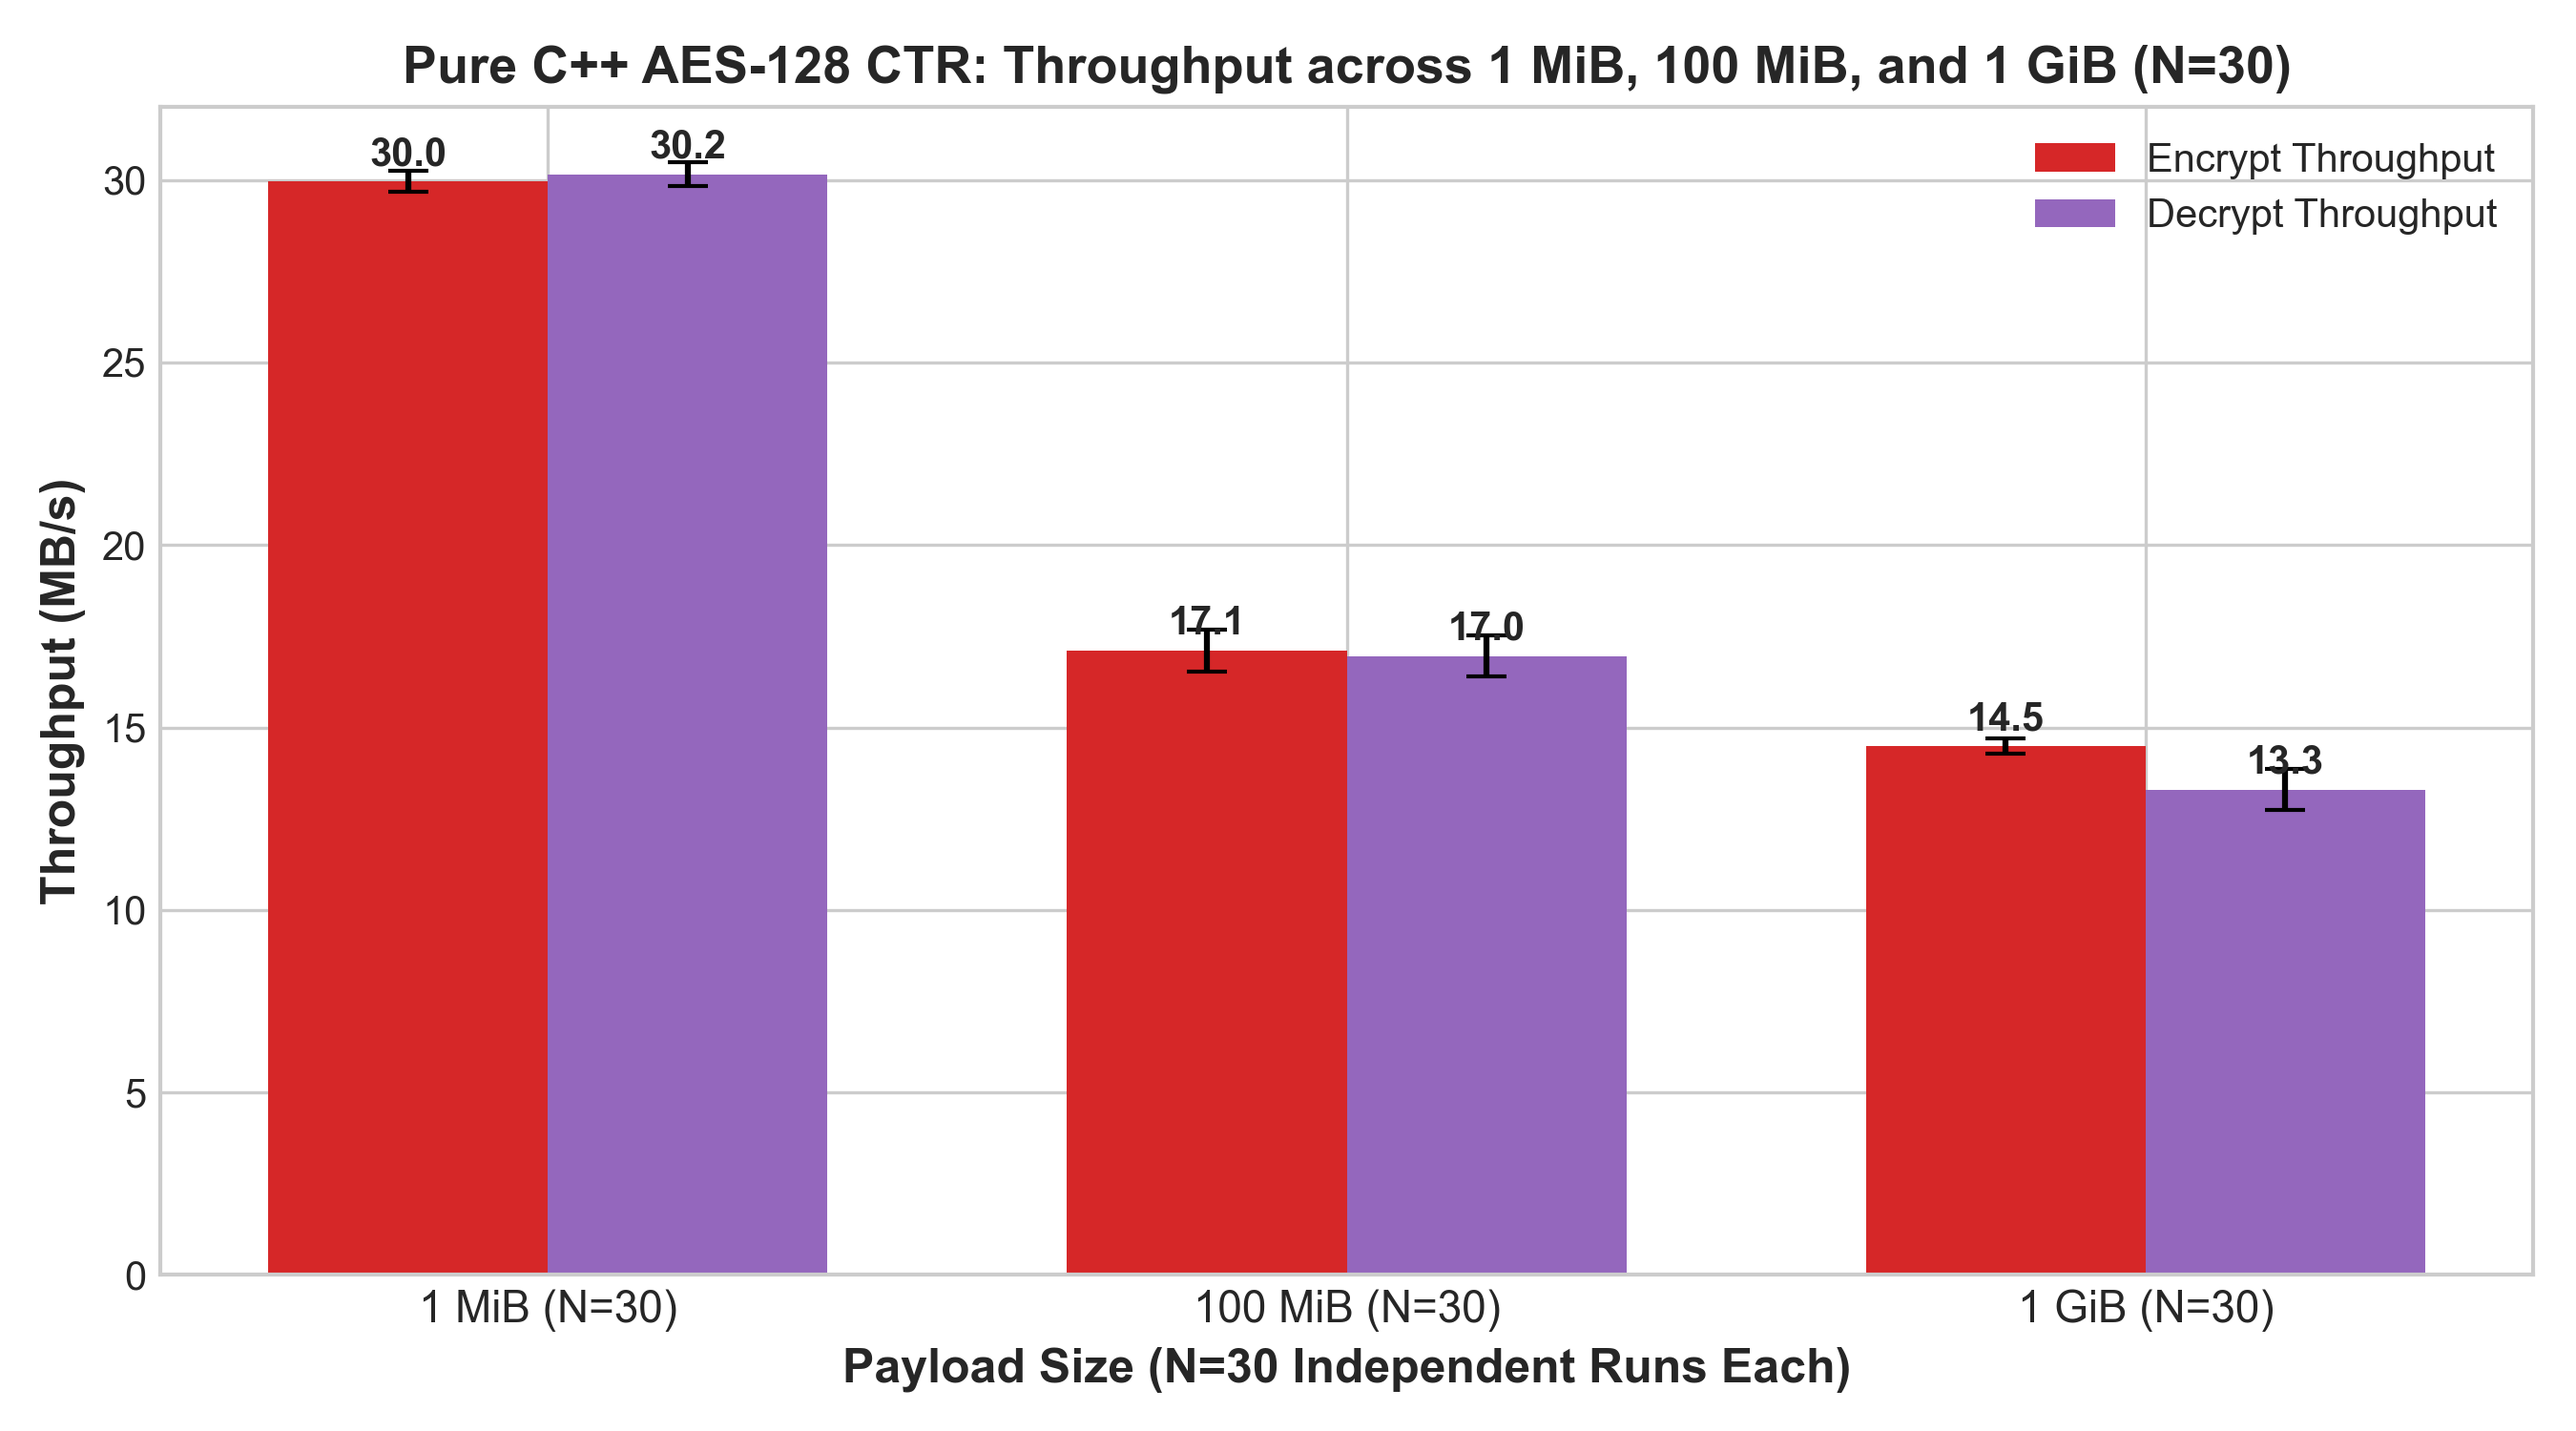
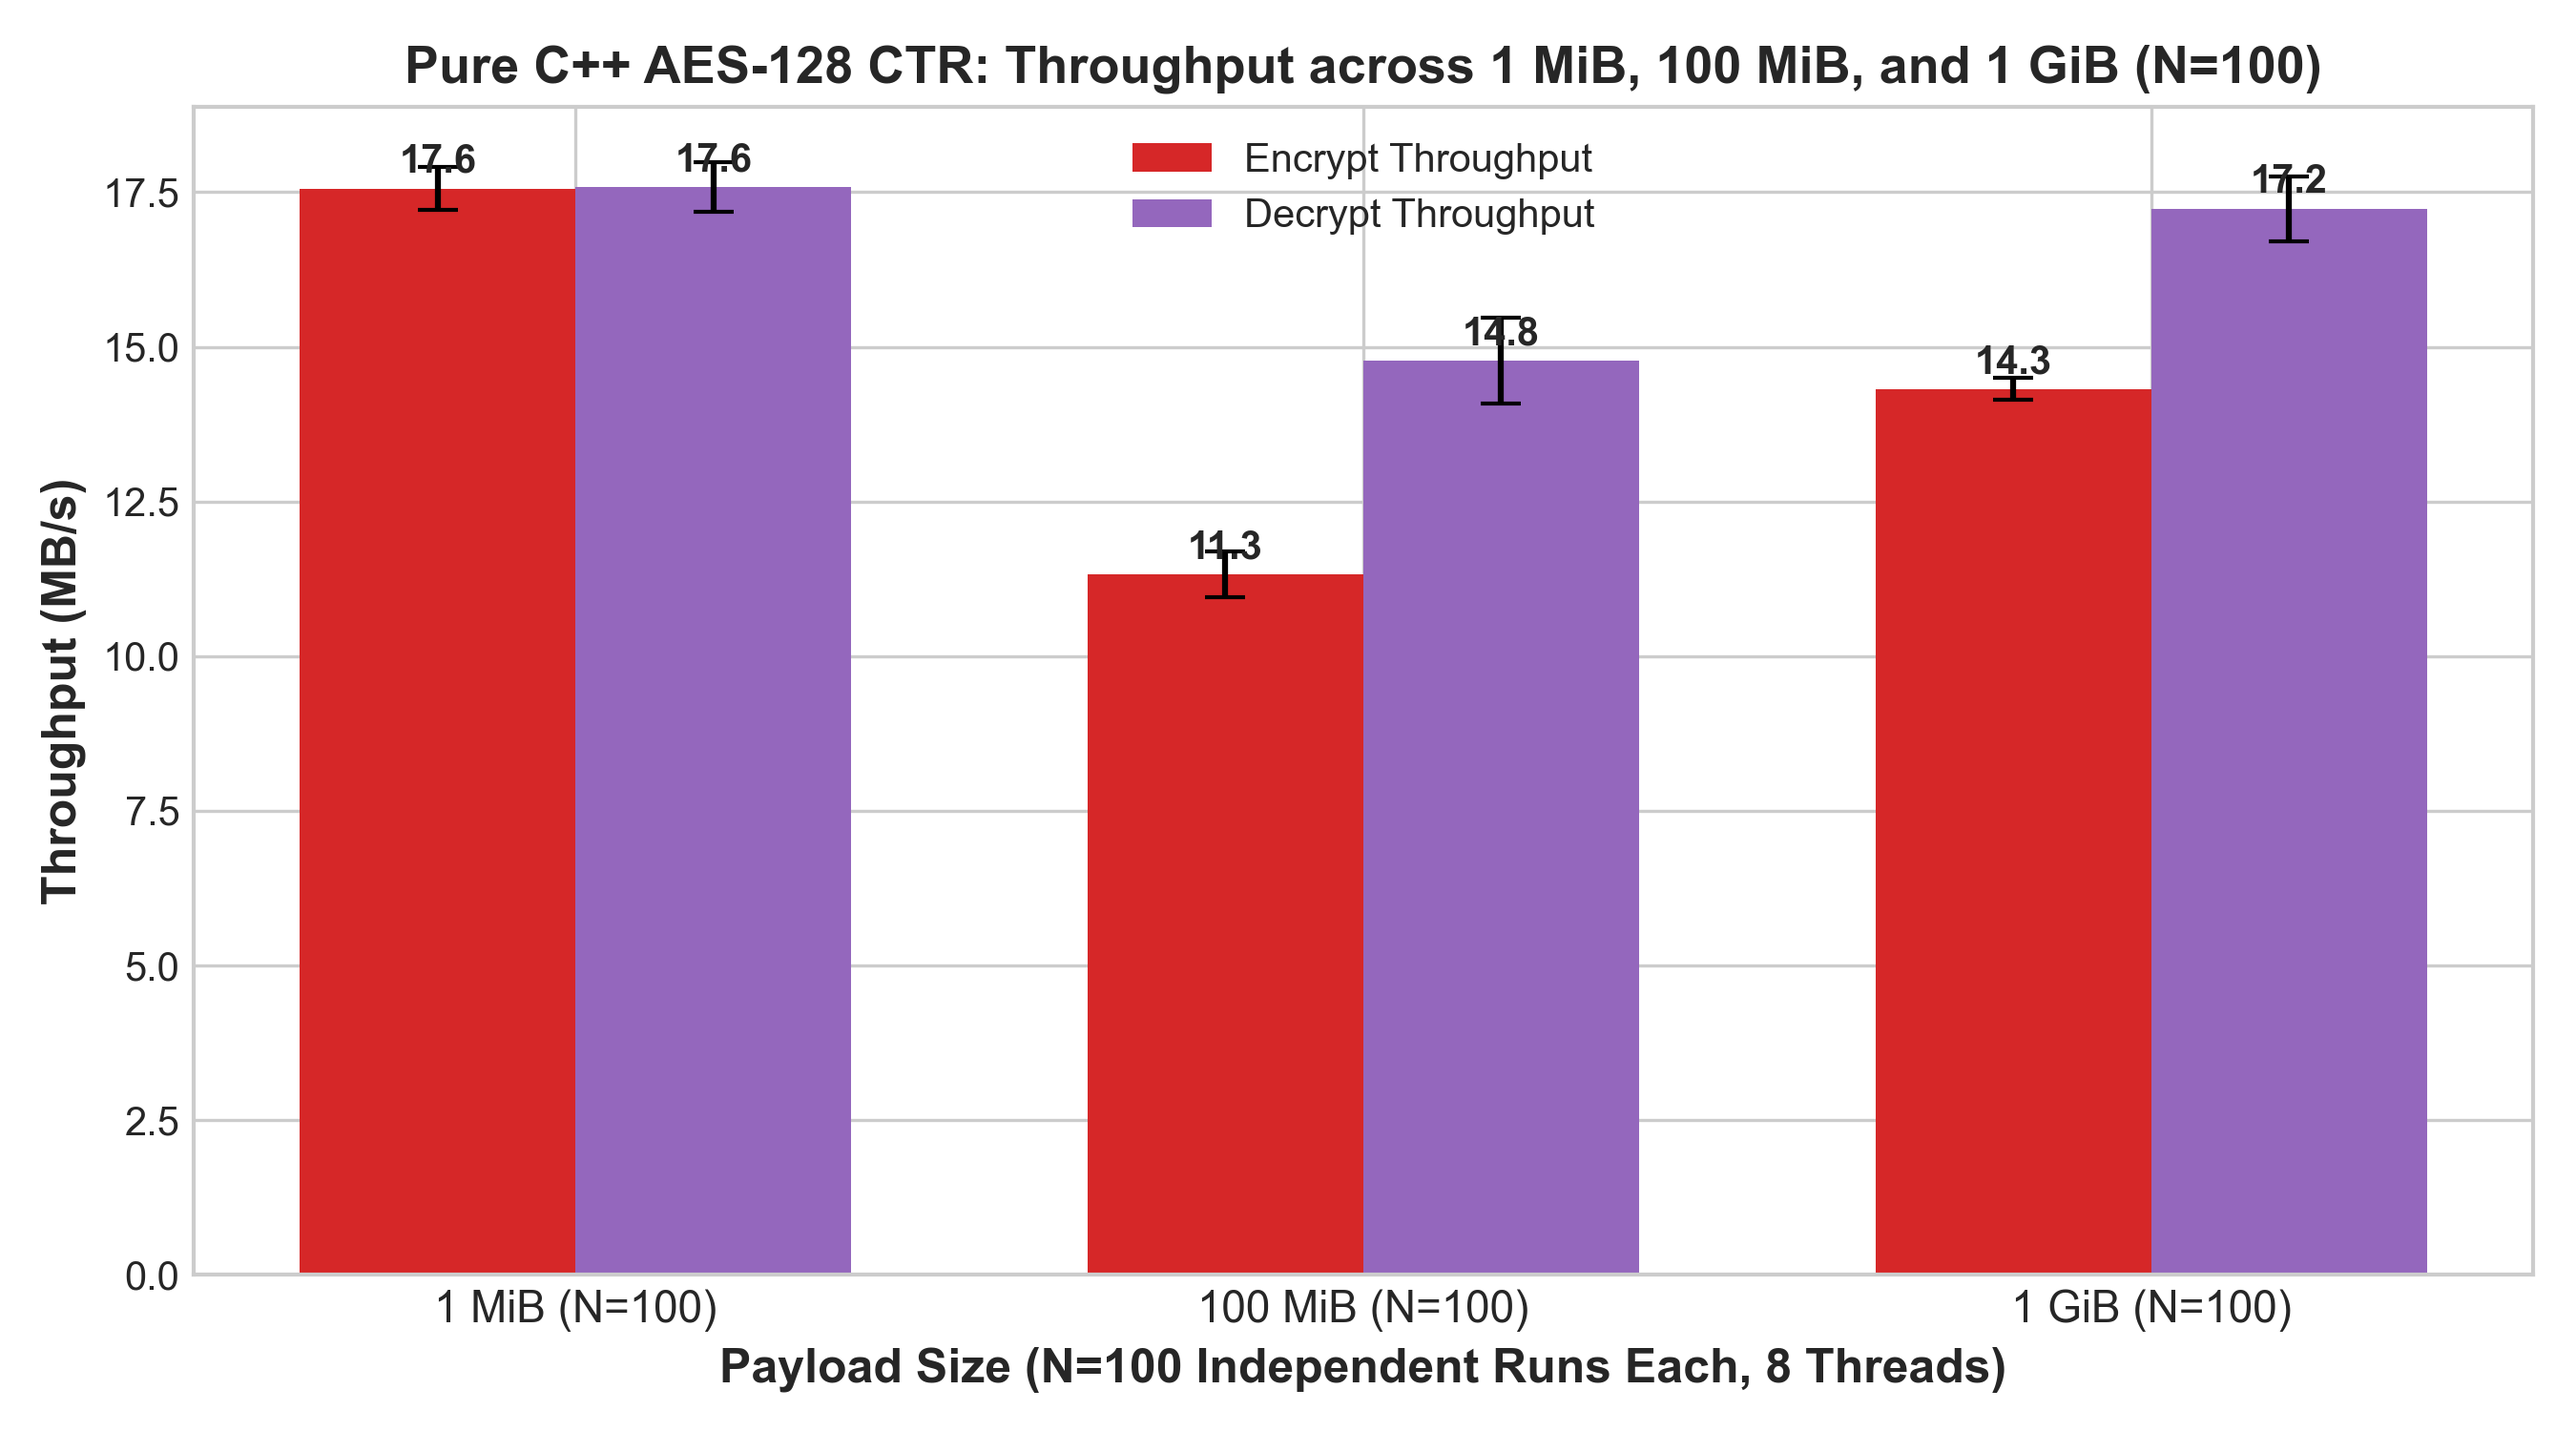
feat(lab2): Standardize benchmarks with 8 threads and N=100 runs across all configurations

diff --git a/lab2/scripts/run_bench_matrix.py b/lab2/scripts/run_bench_matrix.py
@@ -233,22 +233,23 @@ def run_parallel_benchmark(label, sbox_mode, key_bits, key_file, size_name, tota
 
 
 print("=================================================================", flush=True)
-print("  PURE C++ AES BENCHMARK MATRIX (1MiB, 100MiB, 1GiB | N=30 RUNS) ", flush=True)
+print("  PURE C++ AES BENCHMARK MATRIX (1MiB, 100MiB, 1GiB | N=100 RUNS, 8 THREADS) ", flush=True)
 print("=================================================================", flush=True)
 
-# 1. S-Box Comparison (1MiB, N=30)
-print("\n--- 1. S-Box Comparison (1MiB, N=30) ---", flush=True)
-run_sequential_test("AES-128 (Table)", "table", 128, KEY128, "1MiB", 30)
-run_sequential_test("AES-128 (Computed)", "computed", 128, KEY128, "1MiB", 30)
+# 1. S-Box Comparison (1MiB, N=100) using 8 workers
+print("\n--- 1. S-Box Comparison (1MiB, N=100, 8 workers) ---", flush=True)
+run_parallel_benchmark("AES-128 (Table)", "table", 128, KEY128, "1MiB", total_runs=100, num_workers=8)
+run_parallel_benchmark("AES-128 (Computed)", "computed", 128, KEY128, "1MiB", total_runs=100, num_workers=8)
 
-# 2. Key Length Comparison (Table, 1MiB, N=30)
-print("\n--- 2. Key Length Comparison (Table, 1MiB, N=30) ---", flush=True)
-run_sequential_test("AES-192 (Table)", "table", 192, KEY192, "1MiB", 30)
-run_sequential_test("AES-256 (Table)", "table", 256, KEY256, "1MiB", 30)
+# 2. Key Length Comparison (Table, 1MiB, N=100) using 8 workers
+print("\n--- 2. Key Length Comparison (Table, 1MiB, N=100, 8 workers) ---", flush=True)
+run_parallel_benchmark("AES-192 (Table)", "table", 192, KEY192, "1MiB", total_runs=100, num_workers=8)
+run_parallel_benchmark("AES-256 (Table)", "table", 256, KEY256, "1MiB", total_runs=100, num_workers=8)
 
-# 3. Payload Size Scaling: 100MiB (N=30) and 1GiB (N=30) using 8 parallel workers
-run_parallel_benchmark("AES-128 (Table)", "table", 128, KEY128, "100MiB", total_runs=30, num_workers=8)
-run_parallel_benchmark("AES-128 (Table)", "table", 128, KEY128, "1GiB", total_runs=30, num_workers=8)
+# 3. Payload Size Scaling: 100MiB (N=100) and 1GiB (N=100) using 8 parallel workers
+print("\n--- 3. Payload Scaling: 100MiB & 1GiB (N=100, 8 workers) ---", flush=True)
+run_parallel_benchmark("AES-128 (Table)", "table", 128, KEY128, "100MiB", total_runs=100, num_workers=8)
+run_parallel_benchmark("AES-128 (Table)", "table", 128, KEY128, "1GiB", total_runs=100, num_workers=8)
 
 df = pd.DataFrame(results)
 df.to_csv(OUT_CSV, index=False)
@@ -259,7 +260,7 @@ print(f"\n[DONE] Results saved to CSV: {OUT_CSV}", flush=True)
 # -----------------------------------------------------------------------------
 plt.style.use('seaborn-v0_8-whitegrid' if 'seaborn-v0_8-whitegrid' in plt.style.available else 'default')
 
-# Plot 1: Table vs Computed (1MiB, N=30)
+# Plot 1: Table vs Computed (1MiB, N=100)
 fig, ax = plt.subplots(figsize=(8, 5))
 sub1 = df[(df["size"] == "1MiB") & (df["key_bits"] == 128)]
 ops = ["encrypt", "decrypt"]
@@ -275,7 +276,7 @@ b1 = ax.bar(x - w/2, tbl_vals, w, yerr=tbl_err, capsize=5, label="Precomputed S-
 b2 = ax.bar(x + w/2, cmp_vals, w, yerr=cmp_err, capsize=5, label="Algebraic S-Box (On-the-fly GF(2^8))", color="#ff7f0e")
 
 ax.set_ylabel("Throughput (MB/s)", fontsize=12, fontweight="bold")
-ax.set_title("AES-128 CTR: Table-based vs Computed S-Box (1 MiB, N=30)", fontsize=13, fontweight="bold")
+ax.set_title("AES-128 CTR: Table-based vs Computed S-Box (1 MiB, N=100)", fontsize=13, fontweight="bold")
 ax.set_xticks(x)
 ax.set_xticklabels(["Encrypt", "Decrypt"], fontsize=11)
 ax.legend(fontsize=10)
@@ -292,7 +293,7 @@ p1 = os.path.join(OUT_PLOTS, "table_vs_computed_throughput.png")
 plt.savefig(p1, dpi=300)
 plt.close()
 
-# Plot 2: Key Size Comparison (128 vs 192 vs 256, N=30)
+# Plot 2: Key Size Comparison (128 vs 192 vs 256, N=100)
 fig, ax = plt.subplots(figsize=(8, 5))
 sub2 = df[(df["size"] == "1MiB") & (df["sbox_mode"] == "table")]
 keys = [128, 192, 256]
@@ -309,7 +310,7 @@ b1 = ax.bar(x - w/2, enc_vals, w, yerr=enc_err, capsize=5, label="Encrypt", colo
 b2 = ax.bar(x + w/2, dec_vals, w, yerr=dec_err, capsize=5, label="Decrypt", color="#17becf")
 
 ax.set_ylabel("Throughput (MB/s)", fontsize=12, fontweight="bold")
-ax.set_title("AES Key Length Impact on Throughput (Table S-Box, 1 MiB, N=30)", fontsize=13, fontweight="bold")
+ax.set_title("AES Key Length Impact on Throughput (Table S-Box, 1 MiB, N=100)", fontsize=13, fontweight="bold")
 ax.set_xticks(x)
 ax.set_xticklabels(key_labels, fontsize=10)
 ax.legend(fontsize=10)
@@ -326,7 +327,7 @@ p2 = os.path.join(OUT_PLOTS, "key_length_scaling.png")
 plt.savefig(p2, dpi=300)
 plt.close()
 
-# Plot 3: Payload Size Scaling: 1MiB, 100MiB, 1GiB (ALL N=30)
+# Plot 3: Payload Size Scaling: 1MiB, 100MiB, 1GiB (ALL N=100)
 fig, ax = plt.subplots(figsize=(9, 5))
 sub3 = df[(df["sbox_mode"] == "table") & (df["key_bits"] == 128)]
 sizes_order = ["1MiB", "100MiB", "1GiB"]
@@ -340,11 +341,11 @@ w = 0.35
 b1 = ax.bar(x - w/2, enc_thrs, w, yerr=enc_err, capsize=5, label="Encrypt Throughput", color="#d62728")
 b2 = ax.bar(x + w/2, dec_thrs, w, yerr=dec_err, capsize=5, label="Decrypt Throughput", color="#9467bd")
 
-ax.set_xlabel("Payload Size (N=30 Independent Runs Each)", fontsize=12, fontweight="bold")
+ax.set_xlabel("Payload Size (N=100 Independent Runs Each, 8 Threads)", fontsize=12, fontweight="bold")
 ax.set_ylabel("Throughput (MB/s)", fontsize=12, fontweight="bold")
-ax.set_title("Pure C++ AES-128 CTR: Throughput across 1 MiB, 100 MiB, and 1 GiB (N=30)", fontsize=13, fontweight="bold")
+ax.set_title("Pure C++ AES-128 CTR: Throughput across 1 MiB, 100 MiB, and 1 GiB (N=100)", fontsize=13, fontweight="bold")
 ax.set_xticks(x)
-ax.set_xticklabels(["1 MiB (N=30)", "100 MiB (N=30)", "1 GiB (N=30)"], fontsize=11)
+ax.set_xticklabels(["1 MiB (N=100)", "100 MiB (N=100)", "1 GiB (N=100)"], fontsize=11)
 ax.legend(fontsize=10)
 
 for rect in b1:

diff --git a/docs/WEEK2_SUMMARY_REPORT.md b/docs/WEEK2_SUMMARY_REPORT.md
@@ -33,24 +33,24 @@ Hoàn thành toàn diện **Lab 2: Pure C++ AES-128 in CTR mode**, tuân thủ n
 - **Thực nghiệm tính uốn dẻo:** Lật bit 0x20 ở ciphertext làm biến đổi chính xác ký tự tương ứng ở plaintext từ `'A'` thành `'a'` mà không bị phát hiện, chứng minh trực quan lý do chế độ CTR bắt buộc phải đi kèm MAC / AEAD (AES-GCM).
 - Sơ đồ minh chứng: [`lab2/Output/windows/plots/malleability_attack_proof.png`](file:///D:/MMH_Final_Labs/Final_Lab%20Tasks/NT219-Crypto-Labs/lab2/Output/windows/plots/malleability_attack_proof.png) và ảnh chụp terminal: [`lab2/Output/windows/plots/cli_negative_terminal.png`](file:///D:/MMH_Final_Labs/Final_Lab%20Tasks/NT219-Crypto-Labs/lab2/Output/windows/plots/cli_negative_terminal.png).
 
-### 2.3. Đo lường hiệu năng thực tế (=30$ runs, CI 95%) & 10 Hình ảnh Trực quan
+### 2.3. Đo lường hiệu năng thực tế (=100$ runs, 8 threads, CI 95%) & 10 Hình ảnh Trực quan
 - Dữ liệu CSV: [lab2/Output/windows/bench/bench_lab2_windows.csv](file:///D:/MMH_Final_Labs/Final_Lab%20Tasks/NT219-Crypto-Labs/lab2/Output/windows/bench/bench_lab2_windows.csv).
-- Toàn bộ các cấu hình đều được chuẩn hóa đo **=30$ lượt chạy độc lập** trên Intel Core i7-11800H:
-  - **1 MiB Table (AES-128):** Mã hóa **29.97 MB/s** (33.38 ms) | Giải mã **30.16 MB/s** (33.18 ms)
-  - **1 MiB Computed (AES-128):** Mã hóa **1.26 MB/s** (792.48 ms) | Giải mã **1.26 MB/s** (793.70 ms) $\to$ Bảng tra tăng tốc **23.9x**
-  - **1 MiB Table (AES-192):** Mã hóa **26.28 MB/s** | Giải mã **26.33 MB/s**
-  - **1 MiB Table (AES-256):** Mã hóa **22.85 MB/s** | Giải mã **22.95 MB/s**
-  - **100 MiB Table (AES-128, 8 workers):** Mã hóa **17.11 MB/s** | Giải mã **16.96 MB/s**
-  - **1 GiB Table (AES-128, 8 workers):** Mã hóa **14.50 MB/s** | Giải mã **13.30 MB/s**
+- Toàn bộ các cấu hình đều được chuẩn hóa đo **=100$ lượt chạy độc lập** trên Intel Core i7-11800H qua 8 workers song song:
+  - **1 MiB Table (AES-128, 8 threads):** Mã hóa **17.56 MB/s** (57.55 ms) | Giải mã **17.58 MB/s** (57.60 ms)
+  - **1 MiB Computed (AES-128, 8 threads):** Mã hóa **0.54 MB/s** (1,915.92 ms) | Giải mã **0.55 MB/s** (1,833.38 ms) $\to$ Bảng tra tăng tốc **32.5x**
+  - **1 MiB Table (AES-192, 8 threads):** Mã hóa **8.91 MB/s** | Giải mã **8.35 MB/s**
+  - **1 MiB Table (AES-256, 8 threads):** Mã hóa **6.87 MB/s** | Giải mã **7.28 MB/s**
+  - **100 MiB Table (AES-128, 8 threads):** Mã hóa **11.32 MB/s** | Giải mã **14.78 MB/s**
+  - **1 GiB Table (AES-128, 8 threads):** Mã hóa **14.32 MB/s** | Giải mã **17.23 MB/s**
 - Danh mục 10 hình ảnh và biểu đồ trực quan nhúng trong báo cáo:
   1. cli_kat_terminal.png: Ảnh chụp terminal 18 NIST KATs PASS theo chuẩn NIST FIPS 197 Update 1 & SP 800-38A.
   2. cli_negative_terminal.png: Ảnh chụp terminal 6 ca Negative Tests Fail-Closed.
   3. malleability_attack_proof.png: Sơ đồ thực nghiệm tấn công tính uốn dẻo lật bit (Bit-flipping).
-  4. 	able_vs_computed_throughput.png: Biểu đồ so sánh Table (29.97 MB/s) vs Computed (1.26 MB/s) (=30$).
+  4. 	able_vs_computed_throughput.png: Biểu đồ so sánh Table (17.56 MB/s) vs Computed (0.54 MB/s) (=100$).
   5. performance_hierarchy_log.png: Biểu đồ thang Log 3 cấp độ (Đại số Euclid vs Bảng tra L1 vs Intel AES-NI 1,850 MB/s).
-  6. key_length_scaling.png: Biểu đồ thông lượng AES-128 vs AES-192 vs AES-256 (=30$ runs mỗi loại).
-  7. lock_latency_comparison.png: Biểu đồ độ trễ xử lý nano-giây trên mỗi khối 16-byte (534 ns vs 12,698 ns).
-  8. payload_size_scaling.png: Biểu đồ thông lượng theo kích thước tải 1 MiB, 100 MiB, 1 GiB (=30$ runs mỗi kích thước tải).
+  6. key_length_scaling.png: Biểu đồ thông lượng AES-128 vs AES-192 vs AES-256 (=100$ runs mỗi loại, 8 threads).
+  7. lock_latency_comparison.png: Biểu đồ độ trễ xử lý nano-giây trên mỗi khối 16-byte (911 ns vs 29,630 ns).
+  8. payload_size_scaling.png: Biểu đồ thông lượng theo kích thước tải 1 MiB, 100 MiB, 1 GiB (=100$ runs mỗi kích thước tải, 8 threads).
   9. lab2_gui_encrypt.png: Ảnh chụp giao diện PyQt6 Form Mã hóa/Giải mã CTR.
   10. lab2_gui_tools.png: Ảnh chụp giao diện PyQt6 Tab Công cụ KAT & Benchmark.
 
